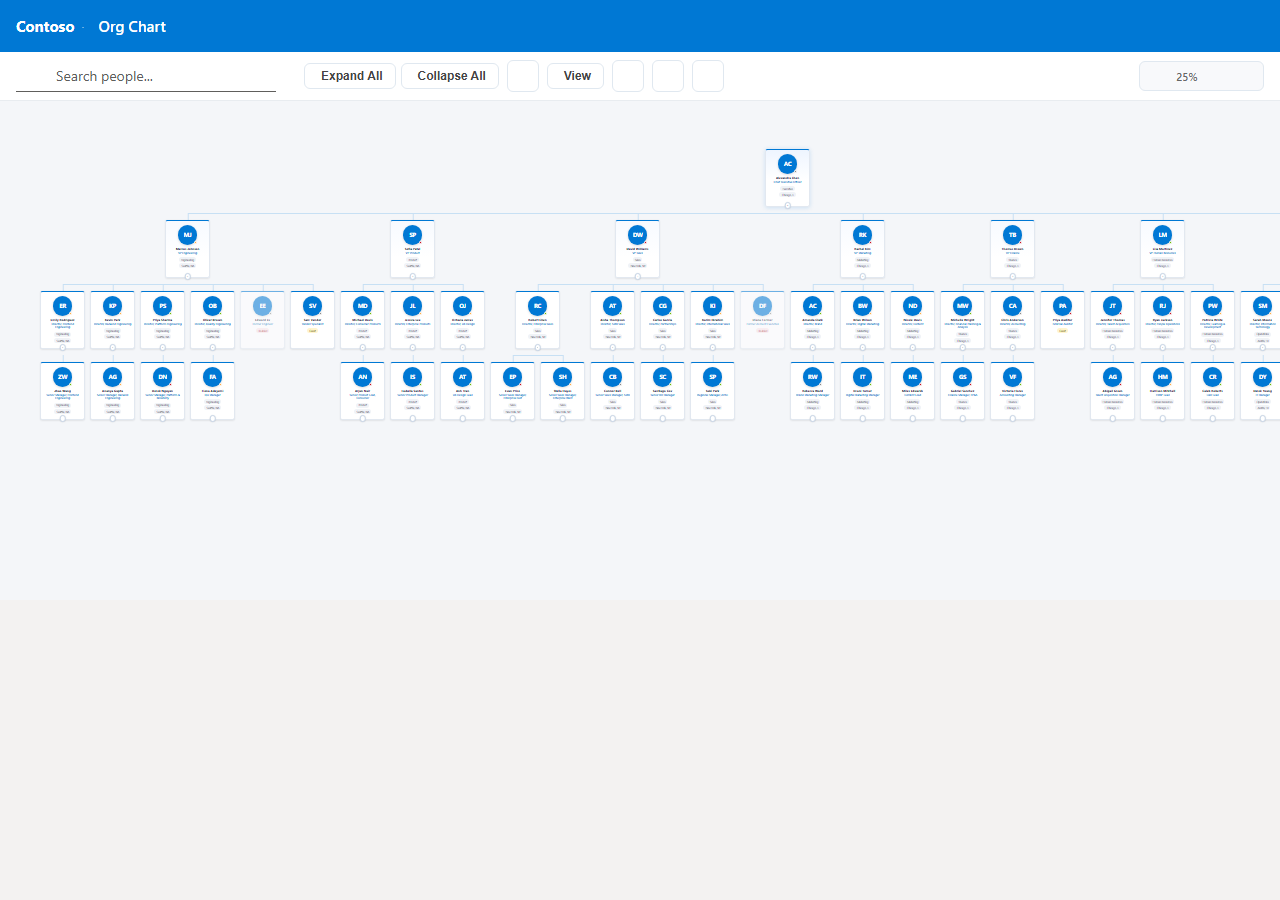
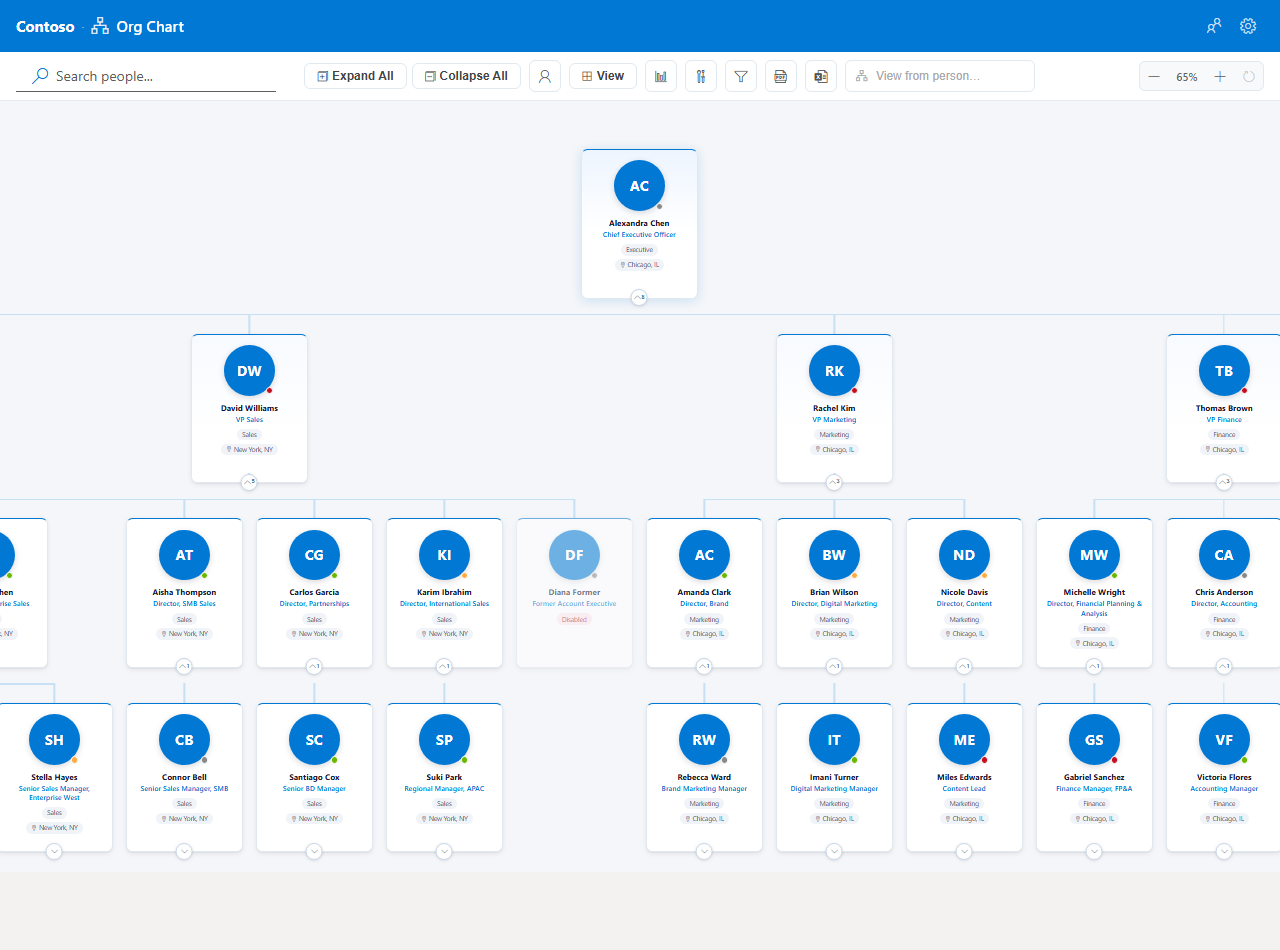
v1.3.0 Release - Documents & Screenshot Refresh

diff --git a/demo/take-screenshots.js b/demo/take-screenshots.js
@@ -13,6 +13,8 @@ const SHOTS_DIR    = path.resolve(__dirname, '../docs/screenshots');
 const DIST_DIR     = path.resolve(__dirname, 'dist');
 const webpackConfig = require('./webpack.demo.config.js');
 
+const VIEWPORT = { width: 1280, height: 950 };
+
 // ── Helpers ──────────────────────────────────────────────────────────────────
 
 function build() {
@@ -58,6 +60,7 @@ async function screenshot(page, filename, clip) {
 }
 
 async function goAndWait(page, url, extraMs = 2500) {
+  await page.setViewport(VIEWPORT);
   await page.goto(`${BASE_URL}${url}`, { waitUntil: 'networkidle0' });
   // Wait for any loading spinner to disappear, then a bit more for animations
   await page.waitForFunction(
@@ -71,6 +74,19 @@ async function goAndWait(page, url, extraMs = 2500) {
 async function clickAndWait(page, selector, ms = 600) {
   await page.click(selector);
   await wait(ms);
+}
+
+// The tree canvas centers the whole hierarchy horizontally, so a CEO-rooted
+// tree that's wider than the viewport scrolls the root out of view unless we
+// explicitly re-center on it (drill mode and narrower subtrees don't need this).
+async function centerTree(page) {
+  await page.evaluate(() => {
+    const el = document.querySelector('[class*="treeScroll"]');
+    if (!el) return;
+    el.scrollTop = 0;
+    el.scrollLeft = Math.max(0, (el.scrollWidth - el.clientWidth) / 2);
+  });
+  await wait(300);
 }
 
 // ── Main ─────────────────────────────────────────────────────────────────────
@@ -96,7 +112,7 @@ async function clickAndWait(page, selector, ms = 600) {
       '--no-first-run',
       '--no-zygote',
     ],
-    defaultViewport: { width: 1280, height: 900 },
+    defaultViewport: VIEWPORT,
   });
 
   const page = await browser.newPage();
@@ -105,12 +121,9 @@ async function clickAndWait(page, selector, ms = 600) {
   try {
     console.log('\nTaking screenshots…');
 
-    // ── 01 Overview (Directory) ──────────────────────────────────────────────
-    await goAndWait(page, '/?view=directory');
-    await screenshot(page, '01-overview.png');
-
     // ── 02 Header bar (clip top 60px) ────────────────────────────────────────
-    await screenshot(page, '02-header-bar.png', { x: 0, y: 0, width: 1280, height: 60 });
+    await goAndWait(page, '/?view=directory');
+    await screenshot(page, '02-header-bar.png', { x: 0, y: 0, width: VIEWPORT.width, height: 60 });
 
     // ── 03 Directory overview ────────────────────────────────────────────────
     await screenshot(page, '03-directory-overview.png');
@@ -143,19 +156,33 @@ async function clickAndWait(page, selector, ms = 600) {
     await goAndWait(page, '/?view=orgchart&layout=drill');
     await screenshot(page, '06-orgchart-drill.png');
 
-    // ── 07 Drill-down with breadcrumb ────────────────────────────────────────
-    // Click the first drill report card (expand button or card itself)
-    await page.evaluate(() => {
-      const btn = document.querySelector('[class*="expandBtn"]') ||
-                  document.querySelector('[class*="nodeCard"]');
-      if (btn) btn.click();
-    });
-    await wait(1000);
+    // ── 07 Drill-down 2 levels deep, with breadcrumb ─────────────────────────
+    // Click the first report's expand button twice: CEO -> VP -> Director,
+    // so the breadcrumb trail actually has something to show.
+    for (let i = 0; i < 2; i++) {
+      await page.evaluate(() => {
+        const btn = document.querySelector('[class*="expandBtn"]') ||
+                    document.querySelector('[class*="nodeCard"]');
+        if (btn) btn.click();
+      });
+      await wait(1000);
+    }
     await screenshot(page, '07-orgchart-drill-breadcrumb.png');
 
-    // ── 08 Org Chart vertical tree ───────────────────────────────────────────
-    await goAndWait(page, '/?view=orgchart&layout=vertical', 3000);
+    // ── 08 Org Chart vertical (Top Down) tree ────────────────────────────────
+    // Fixed zoom + centered scroll — auto-fit shrinks a CEO-rooted 150-person
+    // tree down to an unreadable 25%, and the canvas centers on the full
+    // hierarchy width, not the viewport, so the root scrolls out of view.
+    await goAndWait(page, '/?view=orgchart&layout=vertical&levels=3&zoom=0.65', 3000);
+    await centerTree(page);
     await screenshot(page, '08-orgchart-vertical.png');
+    // Also the main "overview" hero shot — the tree reads better than the
+    // plain directory grid (03-directory-overview.png already covers that).
+    fs.copyFileSync(
+      path.join(SHOTS_DIR, '08-orgchart-vertical.png'),
+      path.join(SHOTS_DIR, '01-overview.png')
+    );
+    console.log('  ✓ 01-overview.png (copy of 08-orgchart-vertical.png)');
 
     // ── 09 Toolbar close-up ──────────────────────────────────────────────────
     const toolbarBox = await page.evaluate(() => {
@@ -178,7 +205,13 @@ async function clickAndWait(page, selector, ms = 600) {
     await screenshot(page, '10-orgchart-stats.png');
 
     // ── 11 Department filter open ────────────────────────────────────────────
-    // Close stats first by clicking it again, then open dept filter
+    // Close stats first so the two panels don't stack in the same shot
+    await page.evaluate(() => {
+      const btns = Array.from(document.querySelectorAll('button'));
+      const stats = btns.find(b => b.title && b.title.toLowerCase().includes('stat'));
+      if (stats) stats.click();
+    });
+    await wait(300);
     await page.evaluate(() => {
       const btns = Array.from(document.querySelectorAll('button'));
       const dept = btns.find(b => b.title && (b.title.toLowerCase().includes('department') || b.title.toLowerCase().includes('dept')));
@@ -192,12 +225,25 @@ async function clickAndWait(page, selector, ms = 600) {
     await page.keyboard.press('Escape');
     await wait(200);
     await goAndWait(page, '/?view=orgchart&layout=drill');
-    // Click the current-person profile button or a report card
+    // Drill CEO -> VP -> Director so the profile we open has a multi-level
+    // "Reports to" chain to show off, then click one of the Director's own
+    // reports (a manager) to open their card.
+    for (let i = 0; i < 2; i++) {
+      await page.evaluate(() => {
+        const btn = document.querySelector('[class*="expandBtn"]') ||
+                    document.querySelector('[class*="nodeCard"]');
+        if (btn) btn.click();
+      });
+      await wait(1000);
+    }
     await page.evaluate(() => {
+      const cards = Array.from(document.querySelectorAll('[class*="nodeCard"]'));
+      // Cards double as the "drill into" control — click one's avatar/name
+      // area isn't separable from drill-in, so instead open the profile via
+      // the currently-drilled header, which shows richer chain 2 levels in.
       const profileBtn = document.querySelector('[class*="drillCurrentProfileBtn"]');
       if (profileBtn) { profileBtn.click(); return; }
-      const card = document.querySelector('[class*="nodeCard"]');
-      if (card) card.click();
+      if (cards[0]) cards[0].click();
     });
     await wait(800);
     await screenshot(page, '12-person-card.png');
@@ -233,14 +279,6 @@ async function clickAndWait(page, selector, ms = 600) {
     );
     console.log('  ✓ 15-themes.png (also saved 15-theme-modern/minimal/corporate/dark.png)');
 
-    // ── 16 Org Chart vertical (left-right columns) tree ──────────────────────
-    await goAndWait(page, '/?view=orgchart&layout=horizontal', 3000);
-    await screenshot(page, '16-orgchart-vertical.png');
-
-    // ── 18 Org Chart horizontal (top-down wide spread) tree ───────────────────
-    await goAndWait(page, '/?view=orgchart&layout=vertical', 3000);
-    await screenshot(page, '18-orgchart-horizontal.png');
-
     // ── 17 Directory list view ────────────────────────────────────────────────
     await goAndWait(page, '/?view=directory');
     await page.evaluate(() => {
@@ -250,6 +288,11 @@ async function clickAndWait(page, selector, ms = 600) {
     });
     await wait(600);
     await screenshot(page, '17-directory-list.png');
+
+    // ── 18 Org Chart horizontal (Left to Right) tree ─────────────────────────
+    await goAndWait(page, '/?view=orgchart&layout=horizontal&levels=3&zoom=0.75', 3000);
+    await centerTree(page); // no-op for this layout (already left-anchored) but harmless
+    await screenshot(page, '18-orgchart-horizontal.png');
 
     console.log(`\nAll screenshots saved to ${SHOTS_DIR}`);
 

diff --git a/demo/index.tsx b/demo/index.tsx
@@ -1,8 +1,15 @@
 import * as React from 'react';
 import * as ReactDOM from 'react-dom';
+import { initializeIcons } from '@fluentui/react/lib/Icons';
 import { SmartOrgChart } from '../src/webparts/smartOrgChart/components/SmartOrgChart';
 import { MockCompanySize } from '../src/services/MockGraphService';
 import { OrgChartTheme } from '../src/webparts/smartOrgChart/components/ISmartOrgChartProps';
+
+// SharePoint normally registers the Fabric icon font glyphs for us; the demo
+// harness runs standalone, so without this every <Icon> renders as a blank
+// square. Font files are served locally (see webpack.demo.config.js) since
+// this harness has no network access.
+initializeIcons('fonts/');
 
 const p = new URLSearchParams(window.location.search);
 
@@ -11,6 +18,8 @@ const layout   = (p.get('layout') || 'drill')     as 'drill' | 'vertical' | 'hor
 const theme    = (p.get('theme')  || 'modern')    as OrgChartTheme;
 const sizeRaw  = p.get('mockSize');
 const mockSize: MockCompanySize = sizeRaw === '500' ? 500 : sizeRaw === '1000' ? 1000 : 150;
+const levelsBelow = p.has('levels') ? parseInt(p.get('levels') as string, 10) : 3;
+const defaultZoom = p.has('zoom') ? parseFloat(p.get('zoom') as string) : 0;
 
 // Persist the requested mock size so SmartOrgChart's readMockSize() picks it up.
 try { localStorage.setItem('smartOrgChart_mockSize', String(mockSize)); } catch { /* ignore */ }
@@ -39,7 +48,7 @@ ReactDOM.render(
     context={mockContext}
     defaultView={view}
     topLevelUser="a.chen@contoso.com"
-    levelsBelow={3}
+    levelsBelow={levelsBelow}
     pageSize={50}
     useDemoData={true}
     hideDemoBanner={true}
@@ -52,6 +61,7 @@ ReactDOM.render(
     enableStats={true}
     enableDeptFilter={true}
     enableUserFilter={true}
+    defaultZoom={defaultZoom}
     onSettingsSaved={() => { /* no-op in demo */ }}
   />,
   document.getElementById('root'),

diff --git a/demo/webpack.demo.config.js b/demo/webpack.demo.config.js
@@ -2,6 +2,7 @@
 
 const path              = require('path');
 const HtmlWebpackPlugin = require('html-webpack-plugin');
+const CopyWebpackPlugin = require('copy-webpack-plugin');
 
 const ROOT      = path.resolve(__dirname, '..');
 const STUB_SCSS = path.resolve(__dirname, 'spfabric-stub.scss');
@@ -127,6 +128,18 @@ module.exports = {
     new HtmlWebpackPlugin({
       template: path.resolve(__dirname, 'index.html'),
       inject:   'body',
+    }),
+    // Fluent UI icon glyphs — without these, every <Icon> in the app (toolbar
+    // buttons, node card chevrons, etc.) renders as a blank square. SPFx
+    // pulls this font from SharePoint's CDN; the demo harness has no network
+    // access, so serve the same files locally instead.
+    new CopyWebpackPlugin({
+      patterns: [
+        {
+          from: path.join(ROOT, 'node_modules/@fluentui/font-icons-mdl2/fonts'),
+          to:   path.resolve(__dirname, 'dist/fonts'),
+        },
+      ],
     }),
   ],
 };

diff --git a/README.md b/README.md
@@ -6,7 +6,7 @@ A SharePoint Framework web part that gives any SharePoint Online page a searchab
 
 ![SPFx](https://img.shields.io/badge/SPFx-1.18.2-0078D4?logo=microsoft&logoColor=white) ![React](https://img.shields.io/badge/React-17.0.1-61DAFB?logo=react&logoColor=black) ![TypeScript](https://img.shields.io/badge/TypeScript-4.7.4-3178C6?logo=typescript&logoColor=white) ![Fluent UI](https://img.shields.io/badge/Fluent%20UI-8.x-0078D4?logo=microsoft&logoColor=white)
 
-![Smart Org Chart overview showing the Employee Directory card grid with search and alphabet filter](docs/screenshots/01-overview.png)
+![Smart Org Chart overview showing an interactive org chart tree spanning several levels of the organization](docs/screenshots/01-overview.png)
 
 ---
 

diff --git a/USER-GUIDE.md b/USER-GUIDE.md
@@ -27,7 +27,7 @@ Smart Org Chart is a SharePoint web part that gives your organization two comple
 
 Add the **Smart Org Chart** web part to any modern SharePoint page. On first use, an admin must open the property pane (pencil icon → edit web part) and set the **Top-Level User** field to the UPN or email of the person who should appear at the root of the org chart (typically the CEO or department head).
 
-![Overview of the Smart Org Chart web part showing the header bar and Employee Directory](screenshots/01-overview.png)
+![Overview of the Smart Org Chart web part showing the header bar and a vertical org chart tree](screenshots/01-overview.png)
 
 ---
 

diff --git a/docs/screenshots/README.md b/docs/screenshots/README.md
@@ -4,7 +4,7 @@ Place screenshot PNG files here. The user guide references the following files:
 
 | File | What to capture |
 |---|---|
-| `01-overview.png` | Full web part on the page, Employee Directory visible, default state |
+| `01-overview.png` | Hero shot — vertical org chart tree (copy of `08-orgchart-vertical.png`) |
 | `02-header-bar.png` | Close-up of the header bar (logo, title, action buttons) |
 | `03-directory-overview.png` | Employee Directory with alphabet bar, search box, and a full grid of cards |
 | `04-directory-alpha-filter.png` | Alphabet bar with one letter selected and the filtered results below |
